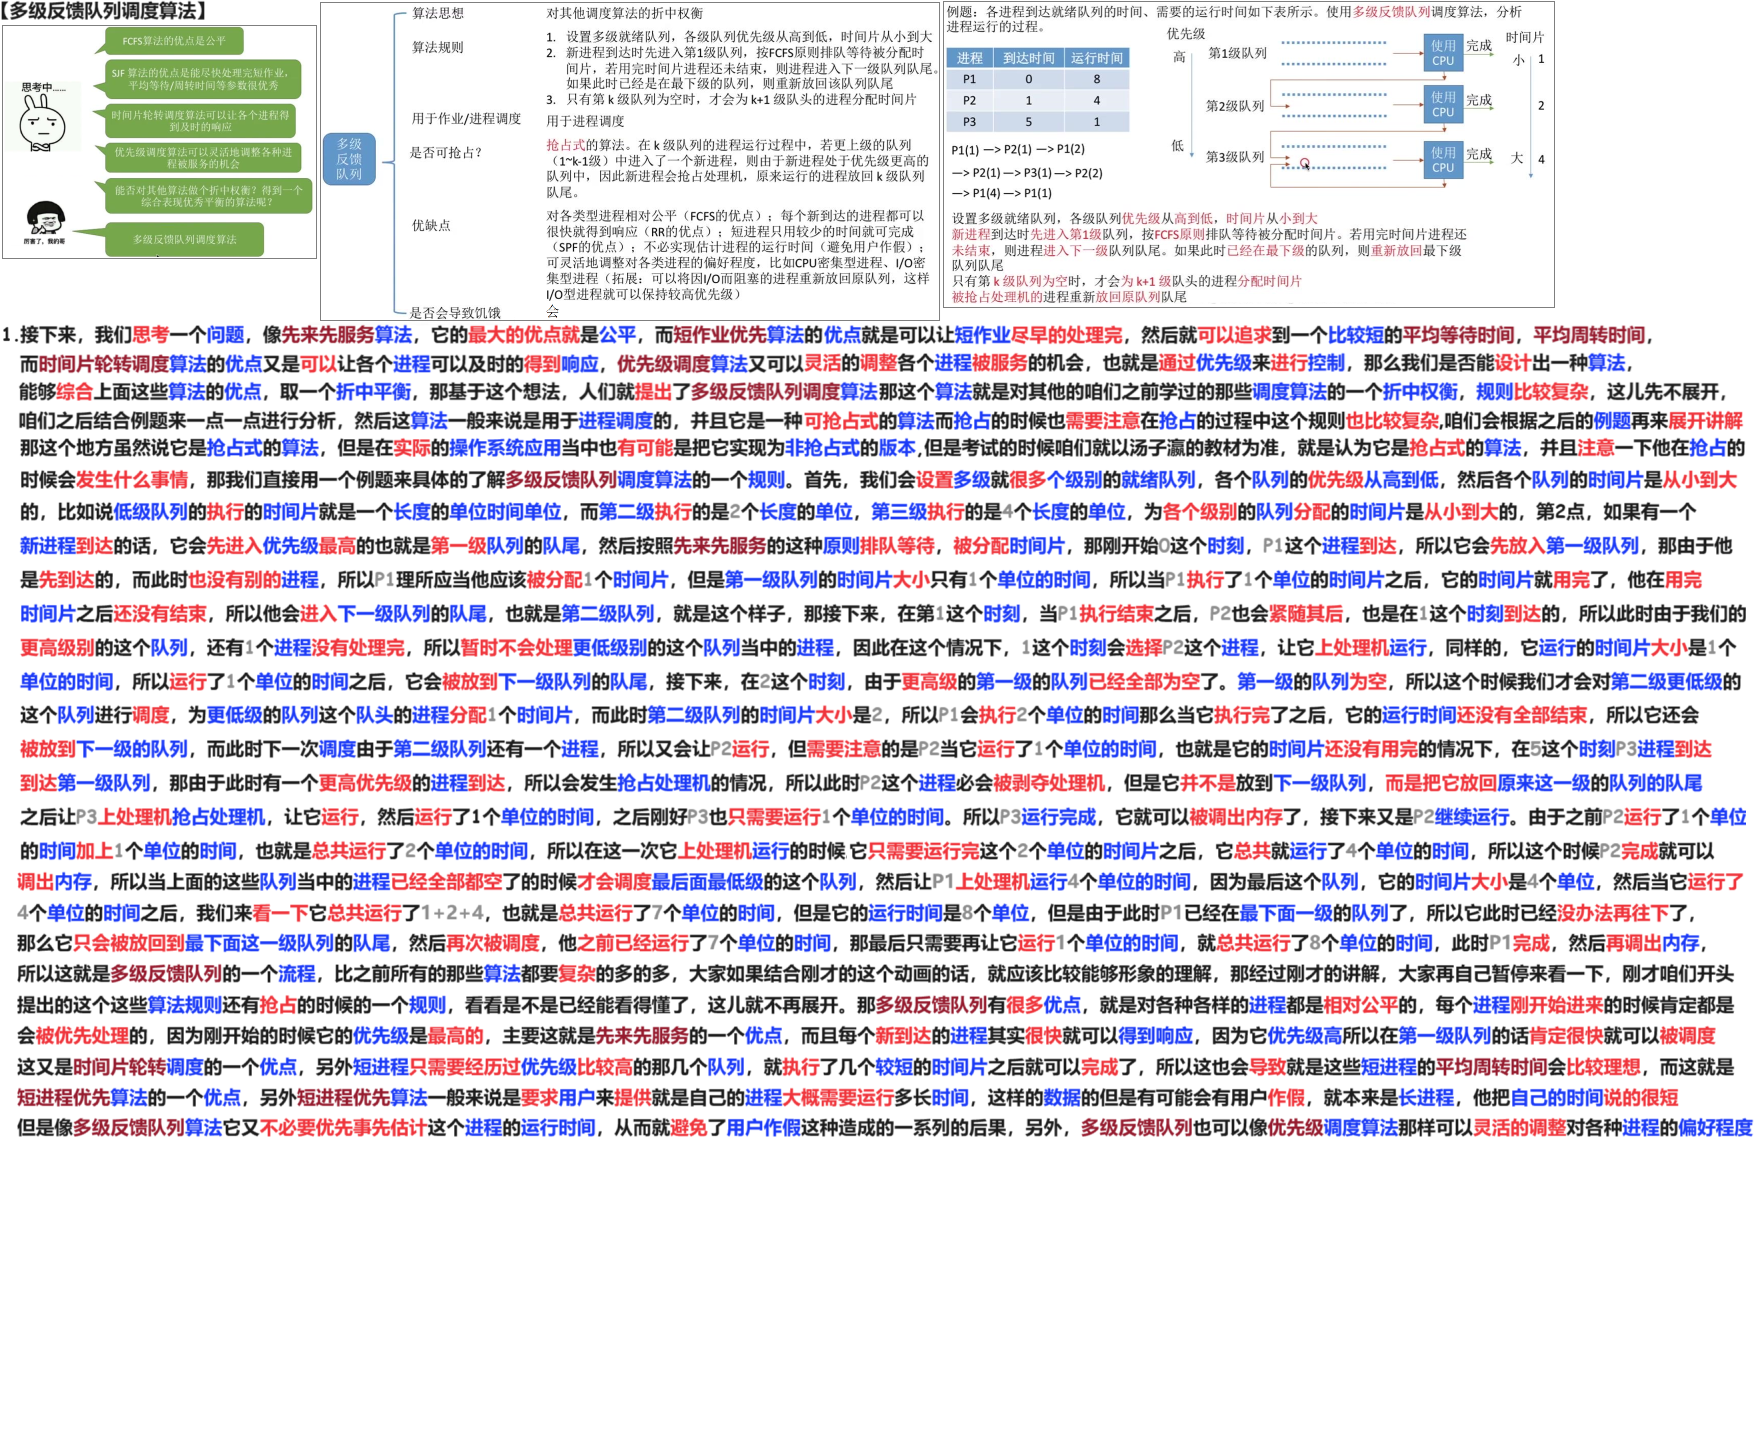
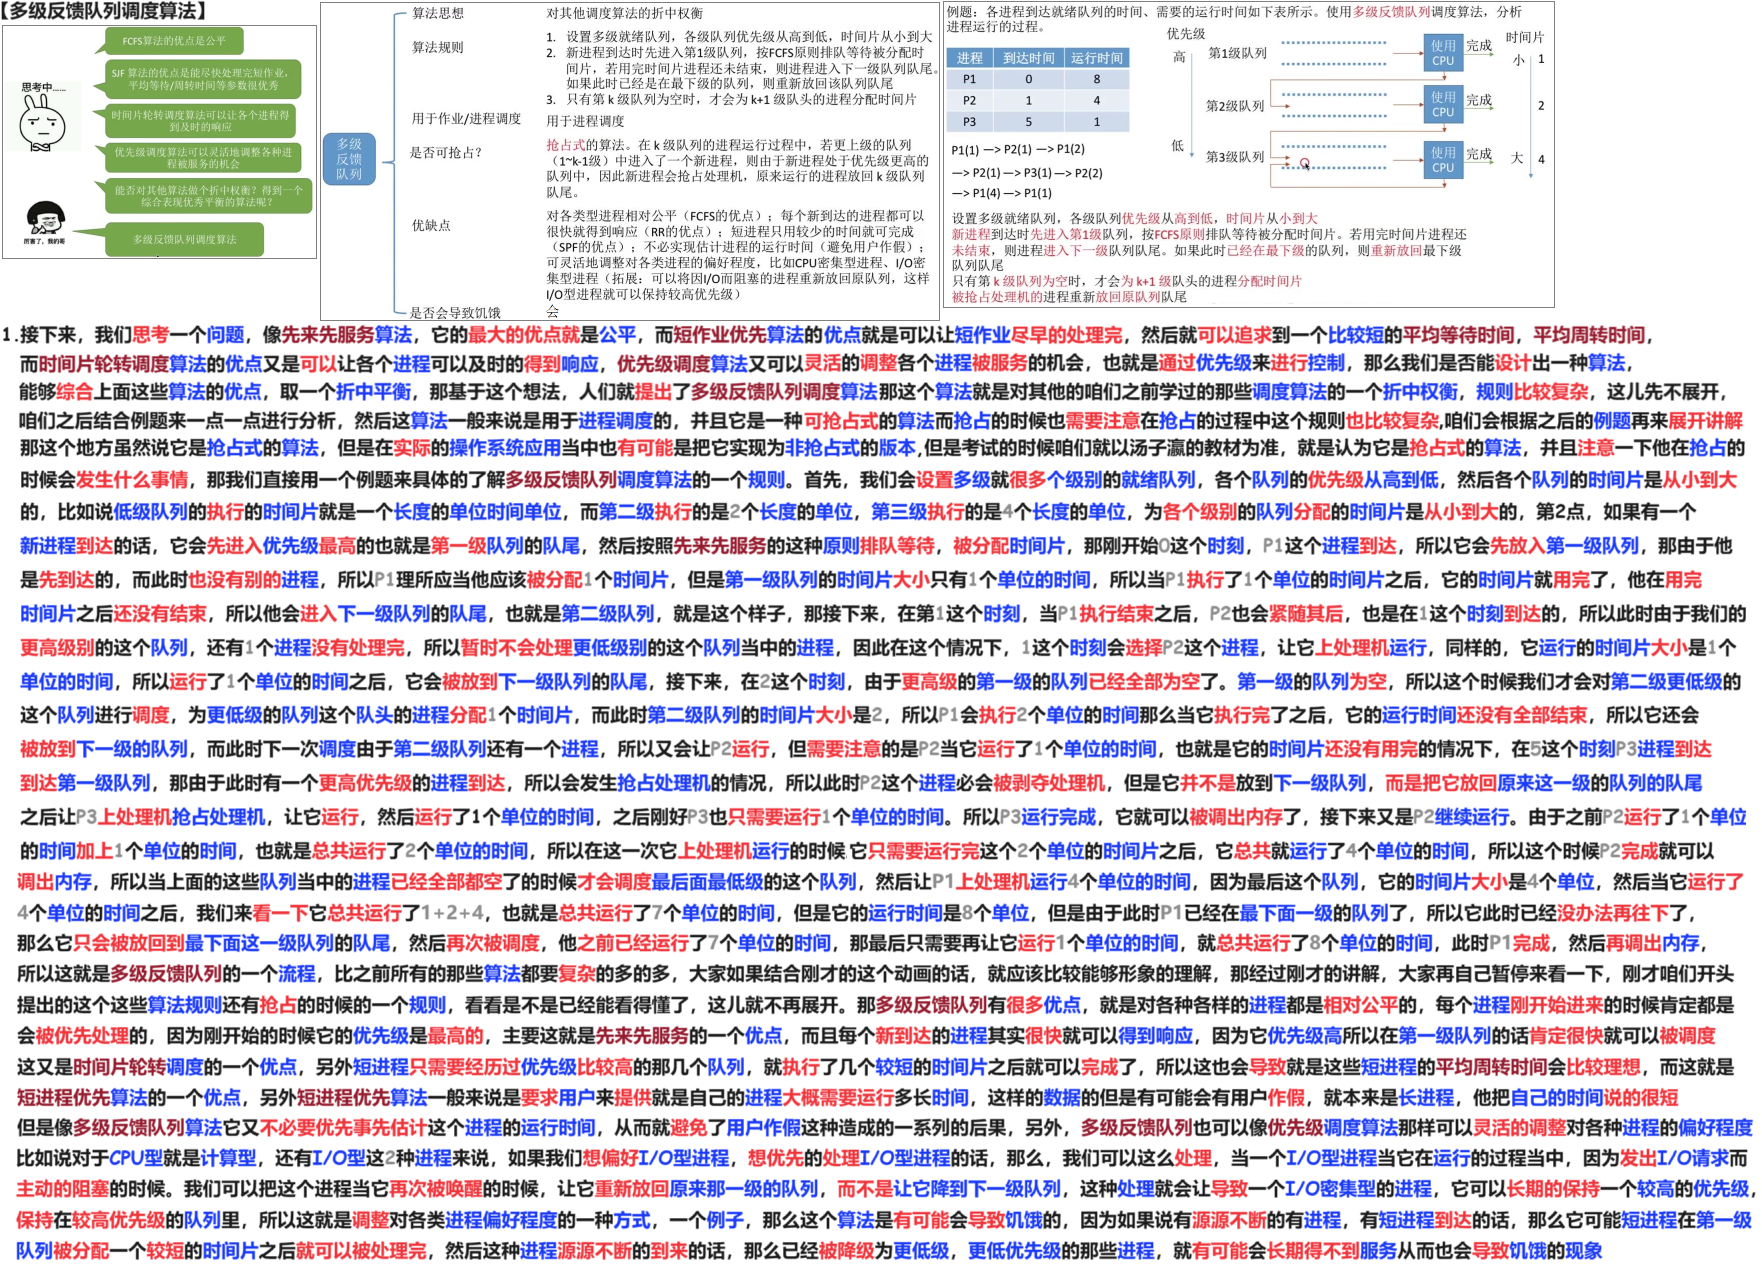
240504

diff --git a/01 初试/01 OS/02 24 25 王道/01 基础/02 进程 线程/02 处理机调度/06 调度算法 时间片轮转 优先级调度 多级反馈队列 240504/02 Doc.md b/01 初试/01 OS/02 24 25 王道/01 基础/02 进程 线程/02 处理机调度/06 调度算法 时间片轮转 优先级调度 多级反馈队列 240504/02 Doc.md
@@ -21,3 +21,11 @@
 
 
 # 04 多级反馈队列调度算法
+
+<img src="https://cvp.oss-cn-shanghai.aliyuncs.com/picgo/202405041740905.png" alt="image-20240504174040492" style="zoom:50%;" />
+
+
+
+# 05 知识回顾与重要考点
+
+<img src="https://cvp.oss-cn-shanghai.aliyuncs.com/picgo/202405041756763.png" alt="image-20240504175659586" style="zoom:50%;" />
